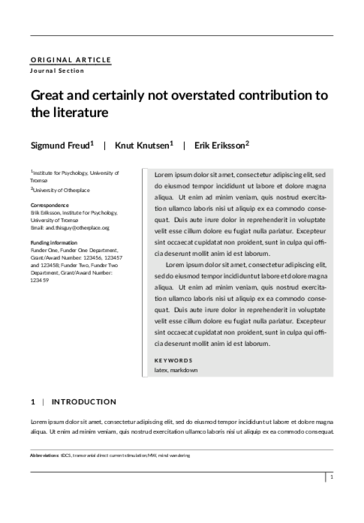
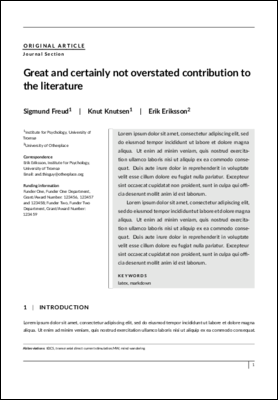
update thumbnails

Changed region(s): [[0.0, 0.0, 1.0, 1.0]]

diff --git a/README.md b/README.md
@@ -1,14 +1,11 @@
 # markdown-paper
 
 Scientific paper in markdown using LaTeX. See the [pdf-directory](pdf/) for examples.
-<img src="pics/paper_elsevier.png" width=30%></img>
-<img src="pics/paper_elsevier.png" width=30%></img>
-<img src="pics/paper_elsevier.png" width=30%></img>
 
-![elsevier](pics/paper_elsevier.png)
-![scientific_reports](pics/paper_scientific_reports.png)
-![springer](pics/paper_springer.png)
-![wiley](pics/paper_wiley.png)
+<img src="pics/paper_elsevier.png" width=30%></img>
+<img src="pics/paper_scientific_reports.png" width=30%></img>
+<img src="pics/paper_springer.png" width=30%></img>
+<img src="pics/paper_wiley.png" width=30%></img>
 
 - [markdown-talk](https://github.com/ihrke/markdown-talk) - template for a beamer-based presentations
 - [markdown-letter](https://github.com/ihrke/markdown-letter) - template for a letters
